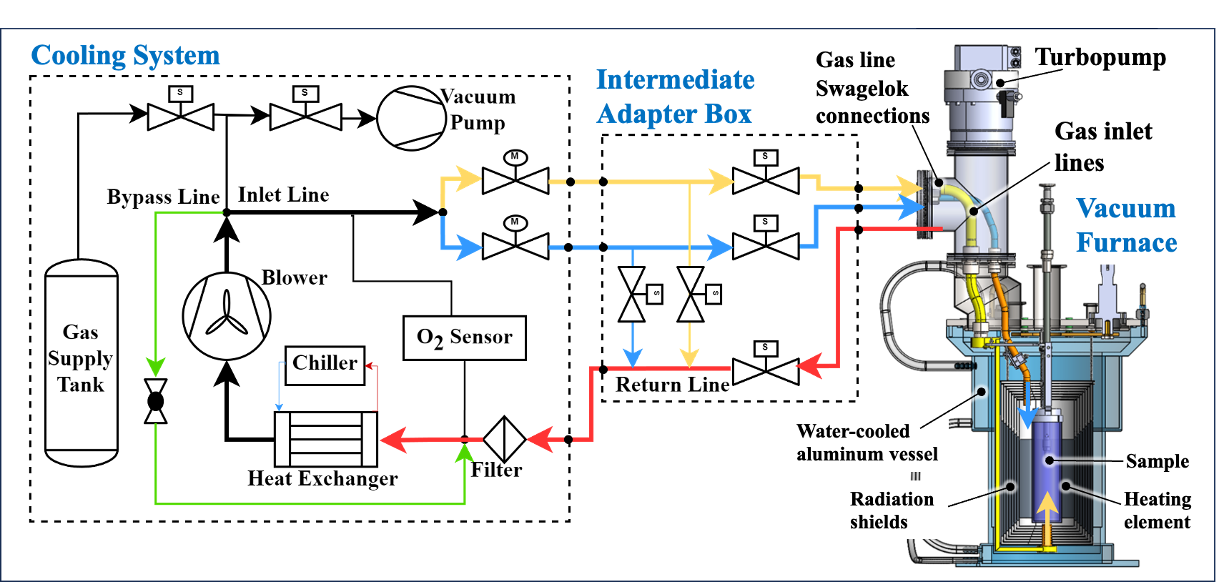
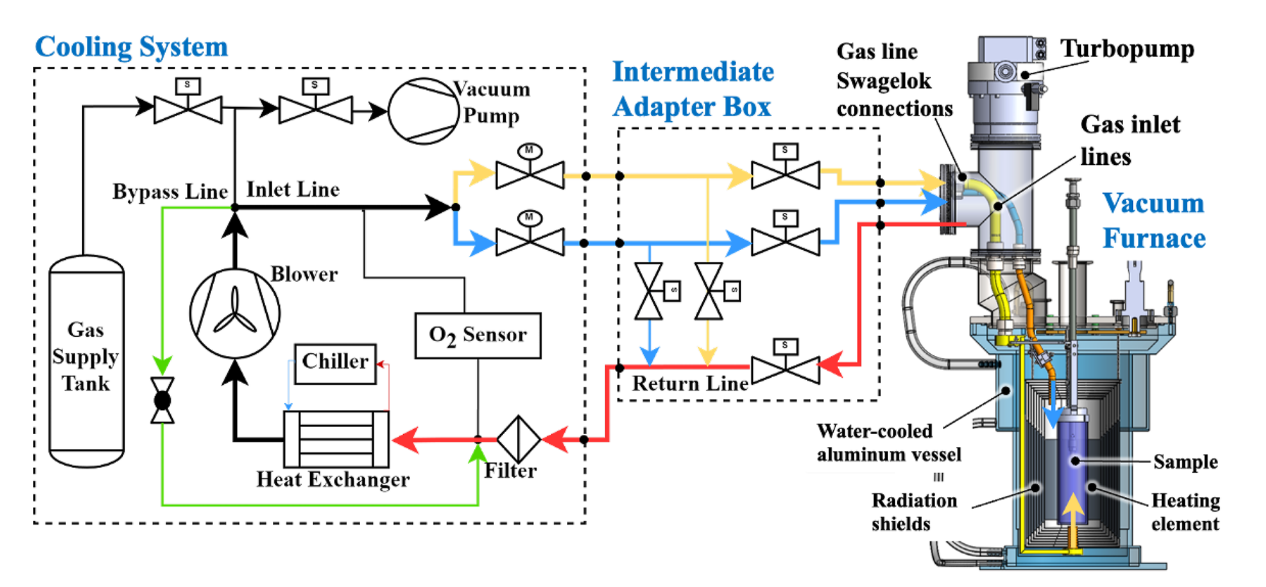
content(projects): correct neutron cooling figure captions, swap in RSI Fig. 1
Replace the hardware figure with the RSI paper's Fig. 1 (closed-loop helium
system integrated with the vacuum furnace). Correct the captions: fig. 1 is the
cooling loop integrated with the vacuum furnace (not the cryostat), and fig. 4
is the deployed system at the VULCAN beamline (not a correlation parity plot).

Changed region(s): [[0.0, 0.0309, 0.9935, 1.0]]

diff --git a/src/data/resume.tsx b/src/data/resume.tsx
@@ -98,7 +98,7 @@ export const DATA = {
       dates: "2026",
       active: true,
       description: "At a national neutron-scattering facility, scientists lose hours of precious beam time waiting for furnaces and freezers to cool between experiments. At Advanced Cooling Technologies, I built systems that cut those waits from hours to minutes, and published the work along the way.",
-      longDescription: "Neutron-scattering facilities are where scientists go to probe the insides of materials, and time on those instruments is scarce, scheduled months ahead, and expensive. A surprising amount of it is wasted waiting. Samples sit inside extremely hot furnaces or extremely cold chambers, and before one experiment can be swapped for the next, the equipment has to come back to a safe temperature. That wait could be two hours or more, several times a day.\n\nAt Advanced Cooling Technologies, I worked on cutting those waits down to minutes. For the furnaces, that meant circulating cold helium through the chamber in a controlled loop, taking the hottest part of the cooldown from over two hours to under five minutes. For the cold chambers, a new sample-holder design used liquid nitrogen to reach deep-cryogenic temperatures in under two minutes instead of about two hours. Just as importantly, the team turned the measurements into design rules, so future systems can be engineered on paper with confidence instead of by trial and error.\n\nThe work was published across journals and conferences, including a featured article in the journal Review of Scientific Instruments. The point of it all: let neutron facilities run substantially more experiments with the same beam time.\n\nRelated publications:\n\n- Adhikari, D.; Quirinale, D.; Radyjowski, P.; Thurman, Z.; Yu, D.; Chen, C.; An, K.; & Mills, R. \"Automated Rapid Cooling of High Temperature Vacuum Furnaces for High Throughput Neutron Experimentation.\" Rev. Sci. Instrum. 97, 063303, 2026. (Featured Article)\n- Adhikari, D.; Radyjowski, P.; Carlson, D.; Davis, R.; Zou, A.; Rao, P.; & Chen, C. \"Rapid Cooling Technology for Extreme Sample Environment Neutron Vacuum Furnaces.\" ASME HT2024-130519, 2024.\n- Zou, A.; Davis, R.; Winters, D.; Carlson, D.; Adhikari, D.; Radyjowski, P.; & Chen, C. \"Fast Cooling Technology for Sample Stick in Top Loading Cryostats.\" ASME SHTC2024-131033, 2024.\n- Page, A.; Davis, R.; Adhikari, D.; Radyjowski, P.; Shaeri, M. R.; & Chen, C. \"Correlation for Heat Transfer Coefficient for Rapid Cooling of Neutron Vacuum Furnaces.\" ASME SHTC2025-156615, 2025.\n- Radyjowski, P.; Davis, R.; Adhikari, D.; Chen, C.-H.; & Mills, R. \"Rapid Cooling Technology for Neutron Vacuum Furnaces\", 12th International Workshop on Sample Environments at Scattering Facilities, Bastad, Sweden, September 2024.\n\n## Technical detail\n\nThe furnace system uses closed-loop circulation of low-pressure helium as the working gas, automated so the cooldown runs without operator intervention. The headline figure covers the most consequential part of the cooldown, 500°C down to 100°C, where radiation alone is slow: over two hours conventionally, under five minutes for low-thermal-mass cases with no sample. The cryostat sample stick embeds a liquid-nitrogen transport line and exploits LN2 boiling to pull room-temperature samples down to ~80 K in under two minutes, versus roughly two hours for a typical dry cryostat.\n\nThe design-rules side of the work produced a Nusselt-number correlation validated across helium, nitrogen, argon, and a nitrogen–helium mixture, within a maximum deviation of 15.7% from the measured experimental values. Heat transfer coefficients for new furnace configurations can be predicted rather than re-measured.\n\n## The systems and the design rules\n\nThe first figure shows the rapid-cooling hardware: the vacuum furnace and the closed helium loop that carries heat away from it, with the cryostat sample-stick design alongside. The second shows how the design rules hold up — measured heat transfer coefficients plotted against the values predicted by the correlation, across the different working gases; the tighter the points sit on the parity line, the more confidently a new configuration can be designed on paper.\n\n![Rapid-cooling vacuum furnace and cryostat sample-environment hardware](/projects/neutron-cooling-fig1.png)\n\n![Measured vs. correlation-predicted heat transfer coefficients across working gases](/projects/neutron-cooling-fig4.png)",
+      longDescription: "Neutron-scattering facilities are where scientists go to probe the insides of materials, and time on those instruments is scarce, scheduled months ahead, and expensive. A surprising amount of it is wasted waiting. Samples sit inside extremely hot furnaces or extremely cold chambers, and before one experiment can be swapped for the next, the equipment has to come back to a safe temperature. That wait could be two hours or more, several times a day.\n\nAt Advanced Cooling Technologies, I worked on cutting those waits down to minutes. For the furnaces, that meant circulating cold helium through the chamber in a controlled loop, taking the hottest part of the cooldown from over two hours to under five minutes. For the cold chambers, a new sample-holder design used liquid nitrogen to reach deep-cryogenic temperatures in under two minutes instead of about two hours. Just as importantly, the team turned the measurements into design rules, so future systems can be engineered on paper with confidence instead of by trial and error.\n\nThe work was published across journals and conferences, including a featured article in the journal Review of Scientific Instruments. The point of it all: let neutron facilities run substantially more experiments with the same beam time.\n\nRelated publications:\n\n- Adhikari, D.; Quirinale, D.; Radyjowski, P.; Thurman, Z.; Yu, D.; Chen, C.; An, K.; & Mills, R. \"Automated Rapid Cooling of High Temperature Vacuum Furnaces for High Throughput Neutron Experimentation.\" Rev. Sci. Instrum. 97, 063303, 2026. (Featured Article)\n- Adhikari, D.; Radyjowski, P.; Carlson, D.; Davis, R.; Zou, A.; Rao, P.; & Chen, C. \"Rapid Cooling Technology for Extreme Sample Environment Neutron Vacuum Furnaces.\" ASME HT2024-130519, 2024.\n- Zou, A.; Davis, R.; Winters, D.; Carlson, D.; Adhikari, D.; Radyjowski, P.; & Chen, C. \"Fast Cooling Technology for Sample Stick in Top Loading Cryostats.\" ASME SHTC2024-131033, 2024.\n- Page, A.; Davis, R.; Adhikari, D.; Radyjowski, P.; Shaeri, M. R.; & Chen, C. \"Correlation for Heat Transfer Coefficient for Rapid Cooling of Neutron Vacuum Furnaces.\" ASME SHTC2025-156615, 2025.\n- Radyjowski, P.; Davis, R.; Adhikari, D.; Chen, C.-H.; & Mills, R. \"Rapid Cooling Technology for Neutron Vacuum Furnaces\", 12th International Workshop on Sample Environments at Scattering Facilities, Bastad, Sweden, September 2024.\n\n## Technical detail\n\nThe furnace system uses closed-loop circulation of low-pressure helium as the working gas, automated so the cooldown runs without operator intervention. The headline figure covers the most consequential part of the cooldown, 500°C down to 100°C, where radiation alone is slow: over two hours conventionally, under five minutes for low-thermal-mass cases with no sample. The cryostat sample stick embeds a liquid-nitrogen transport line and exploits LN2 boiling to pull room-temperature samples down to ~80 K in under two minutes, versus roughly two hours for a typical dry cryostat.\n\nThe design-rules side of the work produced a Nusselt-number correlation validated across helium, nitrogen, argon, and a nitrogen–helium mixture, within a maximum deviation of 15.7% from the measured experimental values. Heat transfer coefficients for new furnace configurations can be predicted rather than re-measured.\n\n## The systems and the deployment\n\nThe first figure shows the rapid-cooling design loop as it integrates with the vacuum furnace: the closed helium circuit (blower, chiller, heat exchanger, and filter) on the left, the intermediate adapter box routing the inlet, return, and bypass lines, and the vacuum furnace itself on the right with its turbopump, water-cooled aluminum vessel, radiation shields, and heating element around the sample. The second figure shows the deployed system at the VULCAN beamline.\n\n![Closed-loop helium rapid-cooling system integrated with the vacuum furnace (RSI paper, Fig. 1)](/projects/neutron-cooling-fig1.png)\n\n![The rapid-cooling system deployed at the VULCAN beamline](/projects/neutron-cooling-fig4.png)",
       technologies: ["Rapid cooling", "Vacuum furnaces", "Neutron instrumentation", "Thermal systems", "Experimental automation"],
       links: [], image: "/projects/neutron-cooling.png", video: "",
     },
